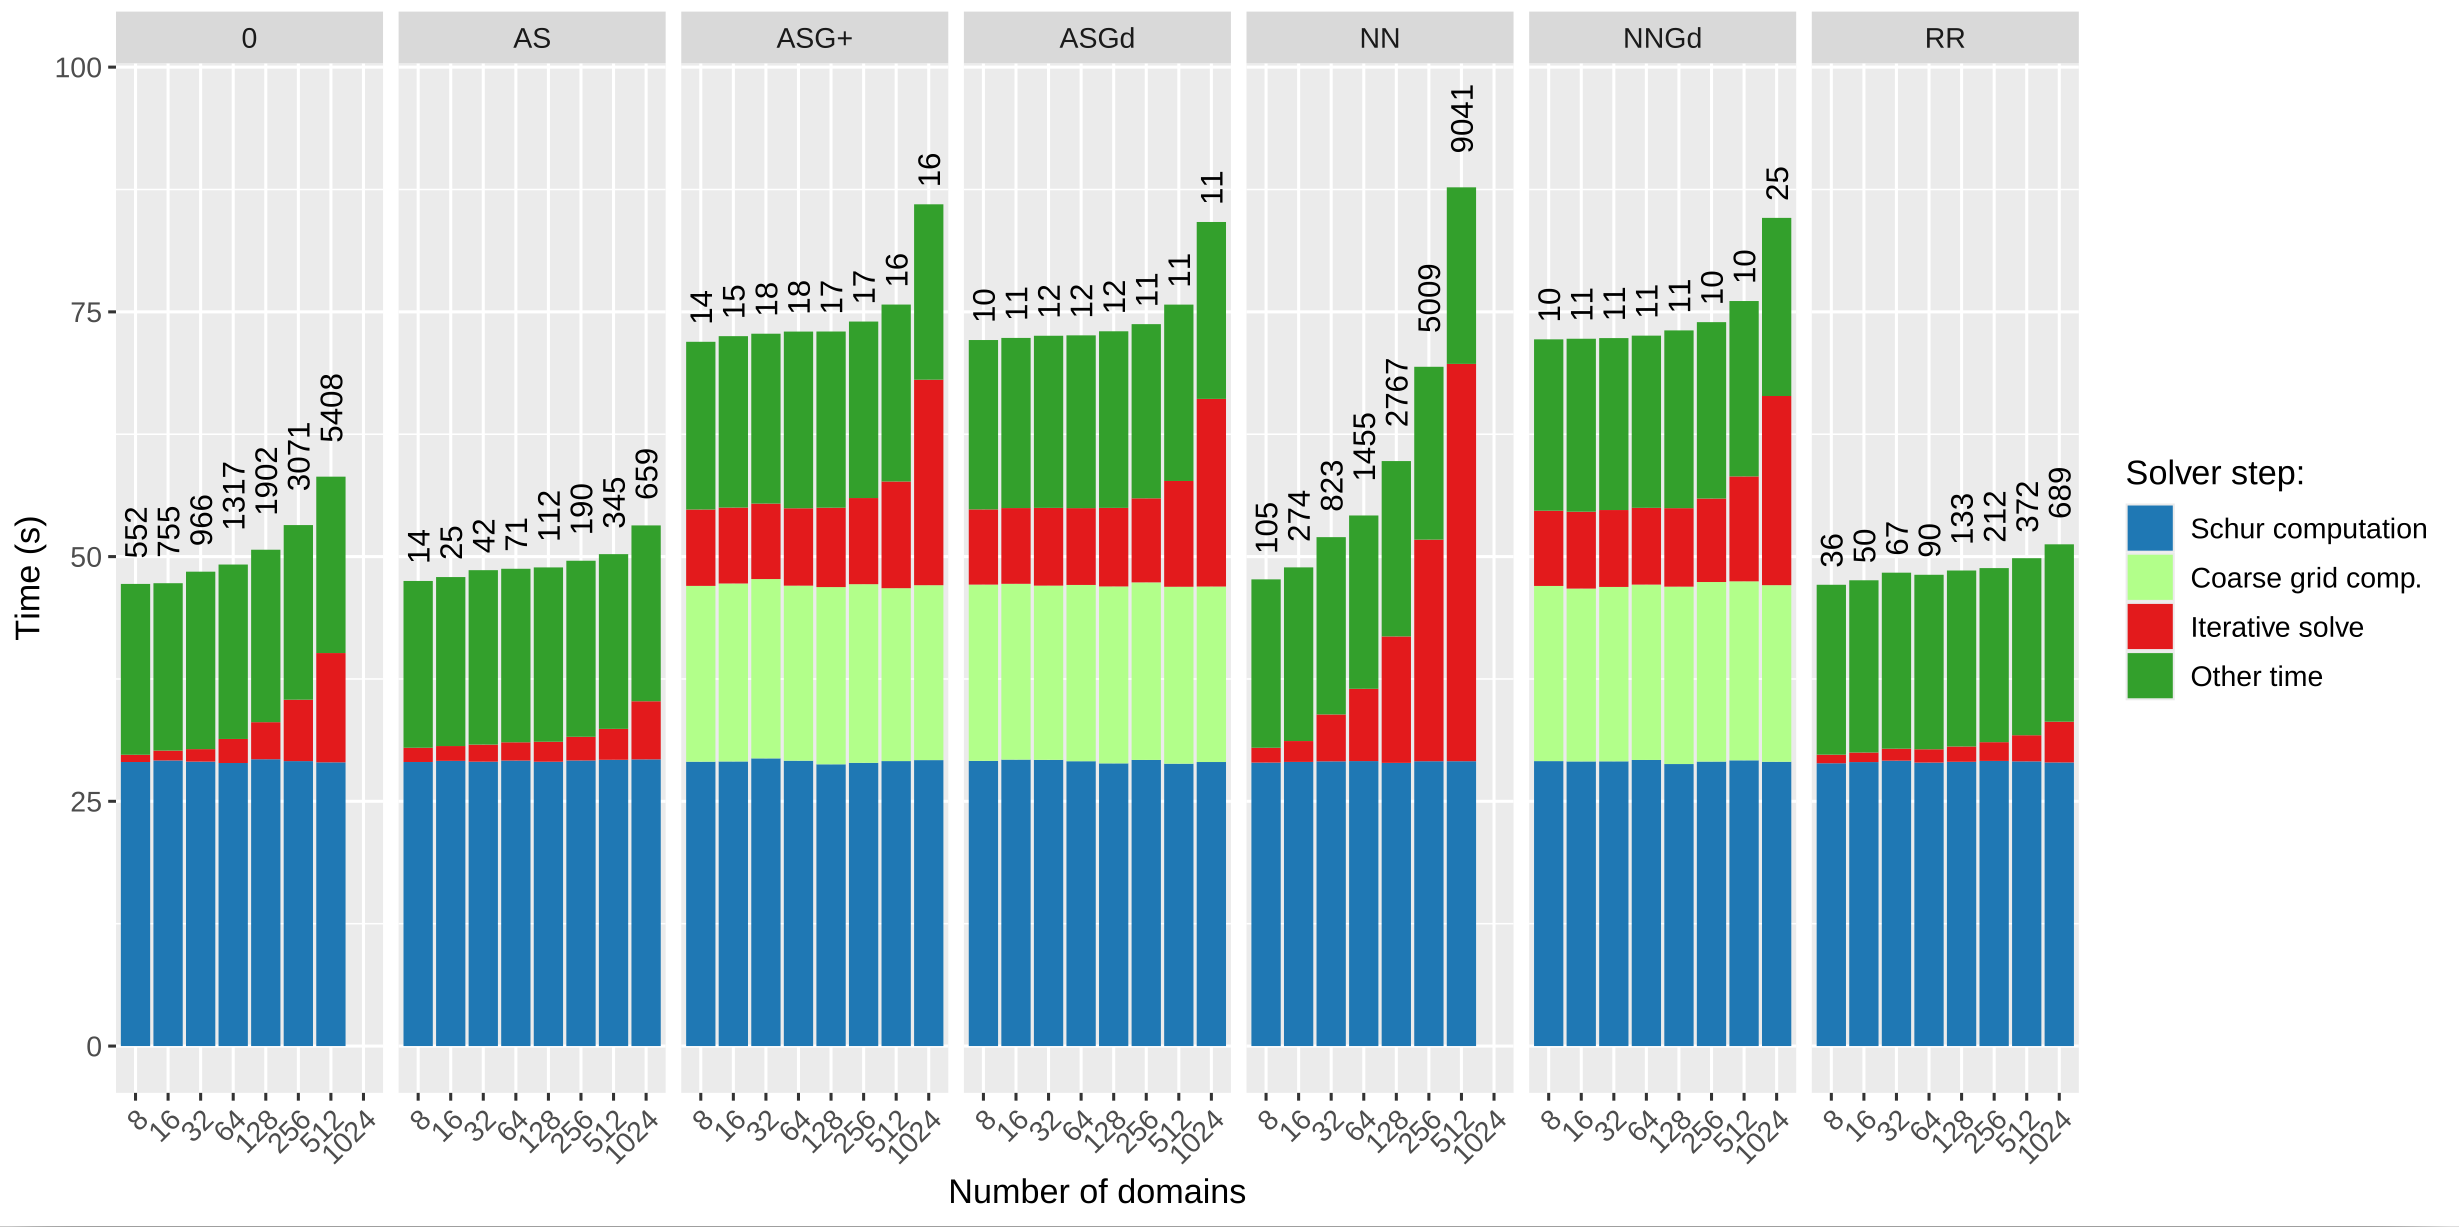
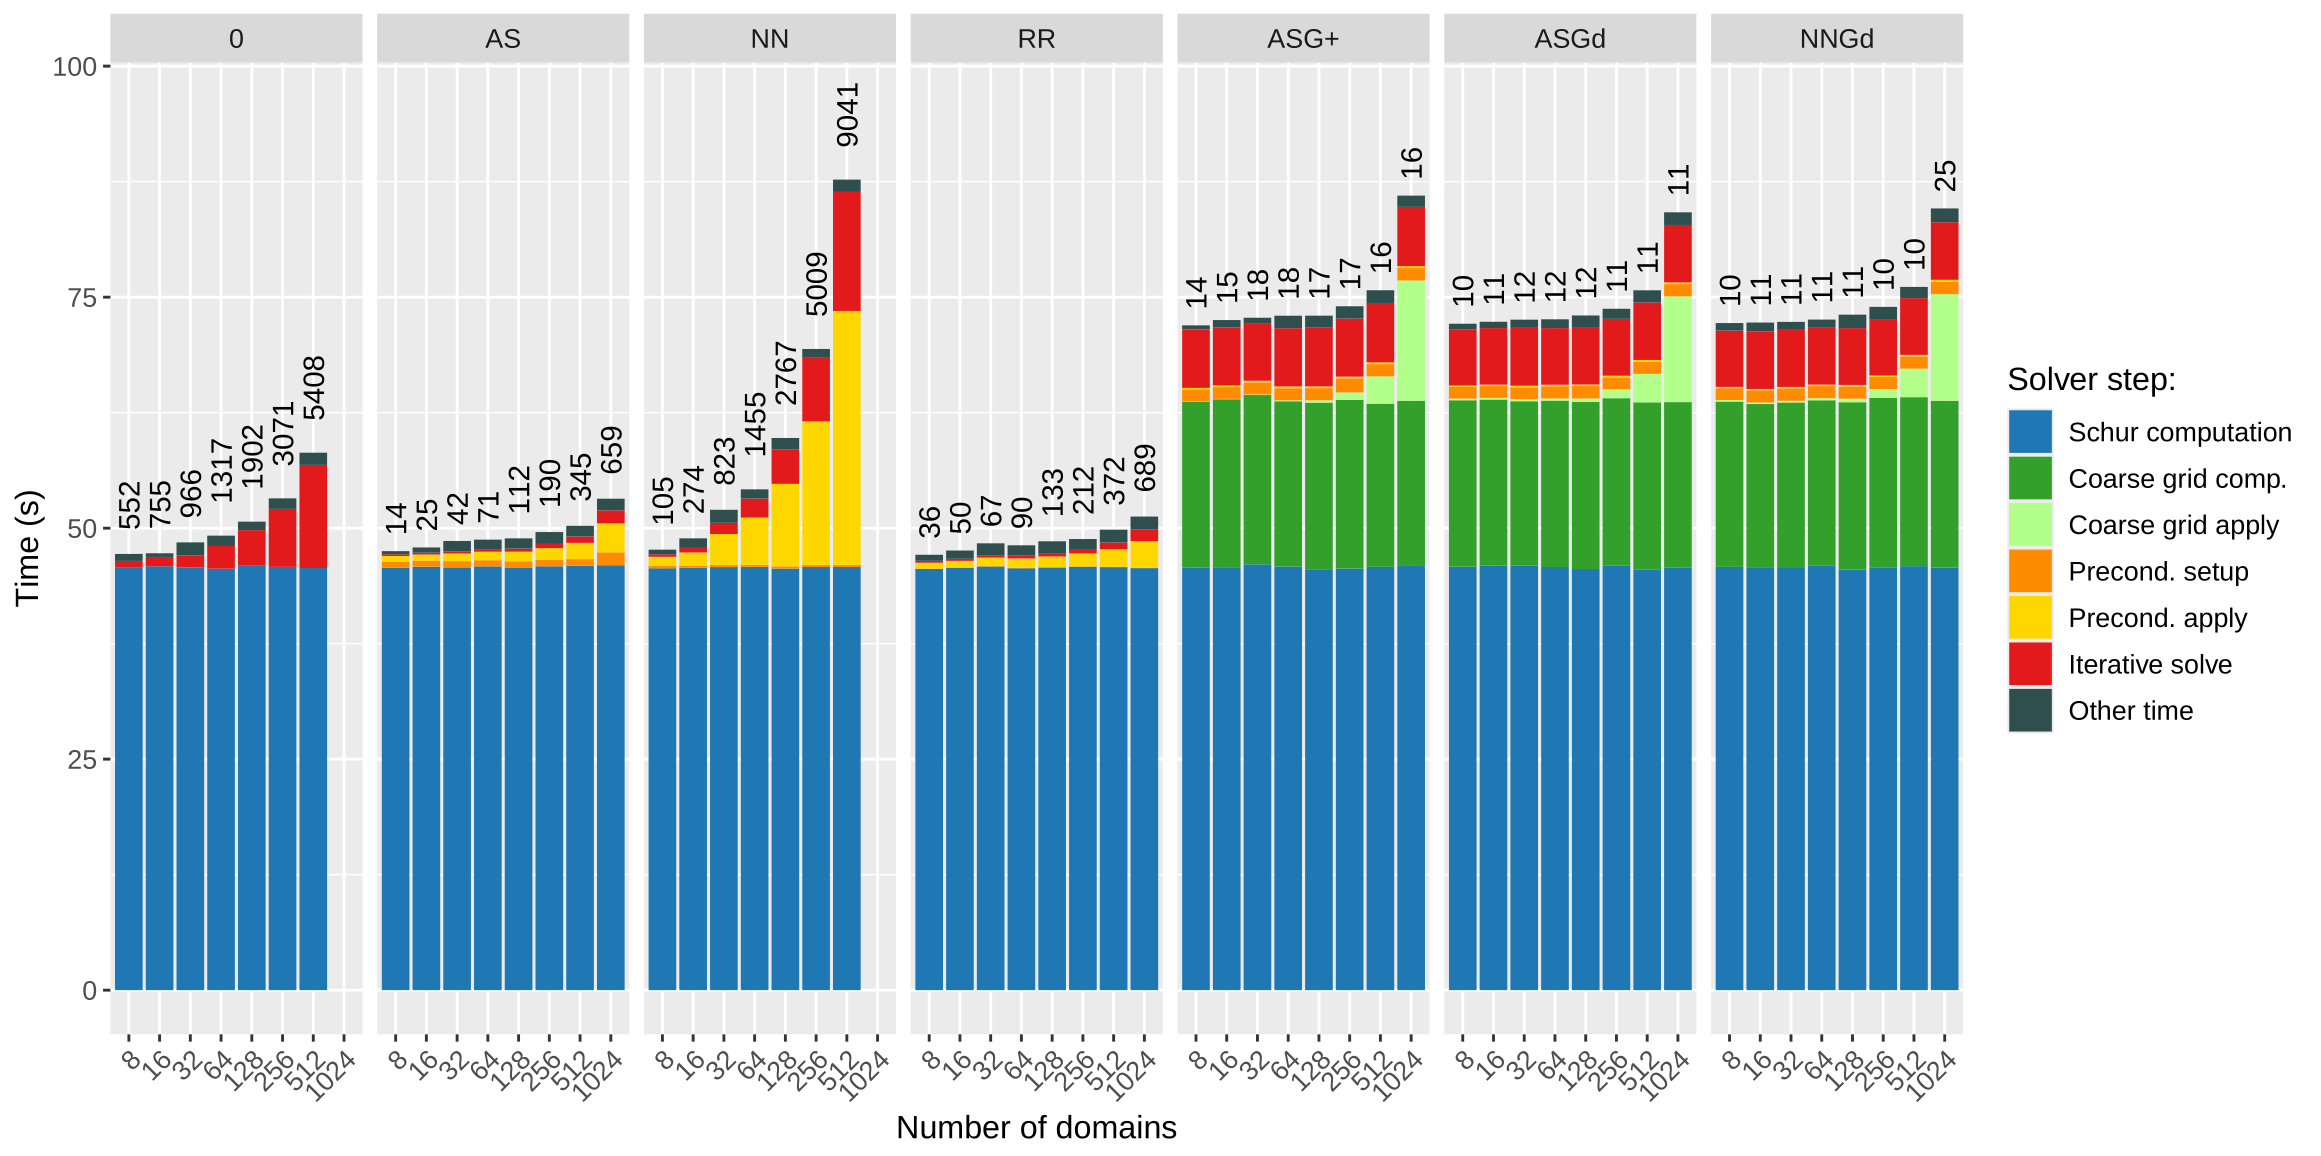
Reread and update figures

diff --git a/software/composyx/WP3/WP3.tex b/software/composyx/WP3/WP3.tex
@@ -71,7 +71,7 @@ In~\cref{tab:WP3:Composyx:features} we provide a summary of the software feature
 
 
 \begin{itemize}
-    \item \textbf{Parallel Environment :} MPI+ threads and not fully assess MPI+StarPU for heterogeneous manycores.
+    \item \textbf{Parallel Environment :} MPI+ threads, MPI + GPUs and not fully assess MPI+StarPU for heterogeneous manycores.
     \item \textbf{Computation environment :} Distributed manycores (GENCI platforms, BSC), and GPUs (Jean-Zay, Adastra)
     %\item describe the parallel capabilities of the software
     \item \textbf{Scalability:} weak scalability on up-to $\approx$ 20~000 cores for the solution of a $\approx 10^9$ linear system. For GPU scaling with 512 GPU MI250x with 89\% efficiency.
@@ -82,22 +82,26 @@ In~\cref{tab:WP3:Composyx:features} we provide a summary of the software feature
 \subsection{Initial Performance Metrics}
 \label{sec:WP3:Composyx:metrics}
 
-This section provides a summary of initial performance benchmarks performed in the context of WP3. It ensures reproducibility by detailing input/output datasets, benchmarking tools, and the results. All data should be publicly available, ideally with a DOI for future reference.
+This section provides a summary of initial performance benchmarks
+performed in the context of WP3. It ensures reproducibility by
+detailing input/output datasets, benchmarking tools, and the results.
+All data should be publicly available, ideally with a DOI for future
+reference.
 
 \begin{itemize}
     \item \textbf{Overall Performance:} weak scalability on up-to $\approx$ 20~000 cores for the solution of a $\approx 10^9$ linear system for CPU. For GPU scaling with 512 GPU MI250x with 89\% efficiency.
     \item \textbf{Input/Output Dataset:} not applicable.
     \item \textbf{open-data Access:} Benchmark on matrix generator distributed on the gitlab of the package.
 %    \item \textbf{Challenges:} Identify any significant bottlenecks or challenges observed during the benchmarking process, including data handling and computational performance.
-    \item \textbf{Future Improvements:} perform more exhaustive experiments on heteroneous nodes, that is using the MPI+StarPU option.
+    \item \textbf{Future Improvements:} perform more exhaustive experiments on heterogeneous nodes, that is using the MPI+StarPU option.
 \end{itemize}
 
 \subsubsection{Benchmark \#1: heterogeneous diffusion }
 \begin{itemize}
-    \item \textbf{Description:} Solution of a 3D heterogenous diffusion équations in a cube to enable a parallel generation of the benchmark.
+    \item \textbf{Description:} Solution of a 3D heterogeneous diffusion equations in a cube to enable a parallel generation of the benchmark.
     \item \textbf{Benchmarking Tools Used:} Metrics are memory consumption and elapsed time to solution.
-    \item \textbf{Input/Output Dataset Description:} internal processing of the output to perform 
-    \item \textbf{Results Summary:} Speedups
+    \item \textbf{Input/Output Dataset Description:} internal processing of the output to perform
+    \item \textbf{Results Summary:} total time to solve the linear system
     \item \textbf{Challenges Identified:} scalability at extreme scale.
 \end{itemize}
 
@@ -129,7 +133,7 @@ In~\cref{tab:WP3:Composyx:bottlenecks}, we briefly discuss the bottleneck roadma
 \rowcolor{white}    B10 - Scientific Productivity & Guix-HPC \\
 \rowcolor{numpexlightergray}    B11 - Reproducibility and Replicability of Computation & Guix-HPC \\
 \rowcolor{white}    B6 - Data Management & not applicable \\
-\rowcolor{numpexlightergray}    B7 - Exascale Algorithms & Tune CPU and GPU features - Possibly add numerical resiliency eventhough we still believe that the resilincy should be addressed in an hollistic fashion as advocated in~\cite{agullo_resiliency_2022}. \\
+\rowcolor{numpexlightergray}    B7 - Exascale Algorithms & Tune CPU and GPU features - Possibly add numerical resiliency even though we still believe that the resiliency should be addressed in an holistic fashion as advocated in~\cite{agullo_resiliency_2022}. \\
 
 \end{tabular}
         }
@@ -178,7 +182,9 @@ and on top of each graph is preconditioner type:
 \end{itemize}
 
 We can see for Additive Schwarz an efficiency of 89\% from 1 node to
-128.
+128. Computation of the Schur complement is done on the CPU by a
+sparse linear solver (Mumps here) and takes a large proportion of the
+total time spent in Composyx.
 
 \subsubsection{Scalability results with CUDA}
 
@@ -208,12 +214,22 @@ results on the LUMI supercomputer to test scalability up to the limit:
 
 \paragraph{}
 
+We also want to explore mixed precision algorithms: some part of the
+computations may be done more efficiently with lower arithmetic
+precision, especially on the future GPU architectures where simple and
+half precision will be much faster than double precision.
+Composability in Composyx will allow us to identify these parts of the
+code and what is their impact on the computation, both numerically and
+in terms of performance.
+
+\paragraph{}
+
 A new class to describe distributed matrices with more flexibility is
 currently under development with the work of Arthur Gouinguenet. This
 work will provide for the user a way to give an input matrix to
-Composyx with his/her own distributed, dealing with degrees of freedom
-potentially shared between subdomains. It will provide redistribution
-of coefficients to adapt to specific format for other libraries. This
-work was motivated by the application \textit{Hawen} where calls to
-distributed solvers such as Mumps could benefit from this new approach
-to describe matrices.
+Composyx with his/her own distribution, dealing with degrees of
+freedom potentially shared between subdomains. It will provide
+redistribution of coefficients to adapt to specific format for other
+libraries. This work was motivated by the application \textit{Hawen}
+where calls to distributed solvers such as Mumps could benefit from
+this new approach to describe matrices.
